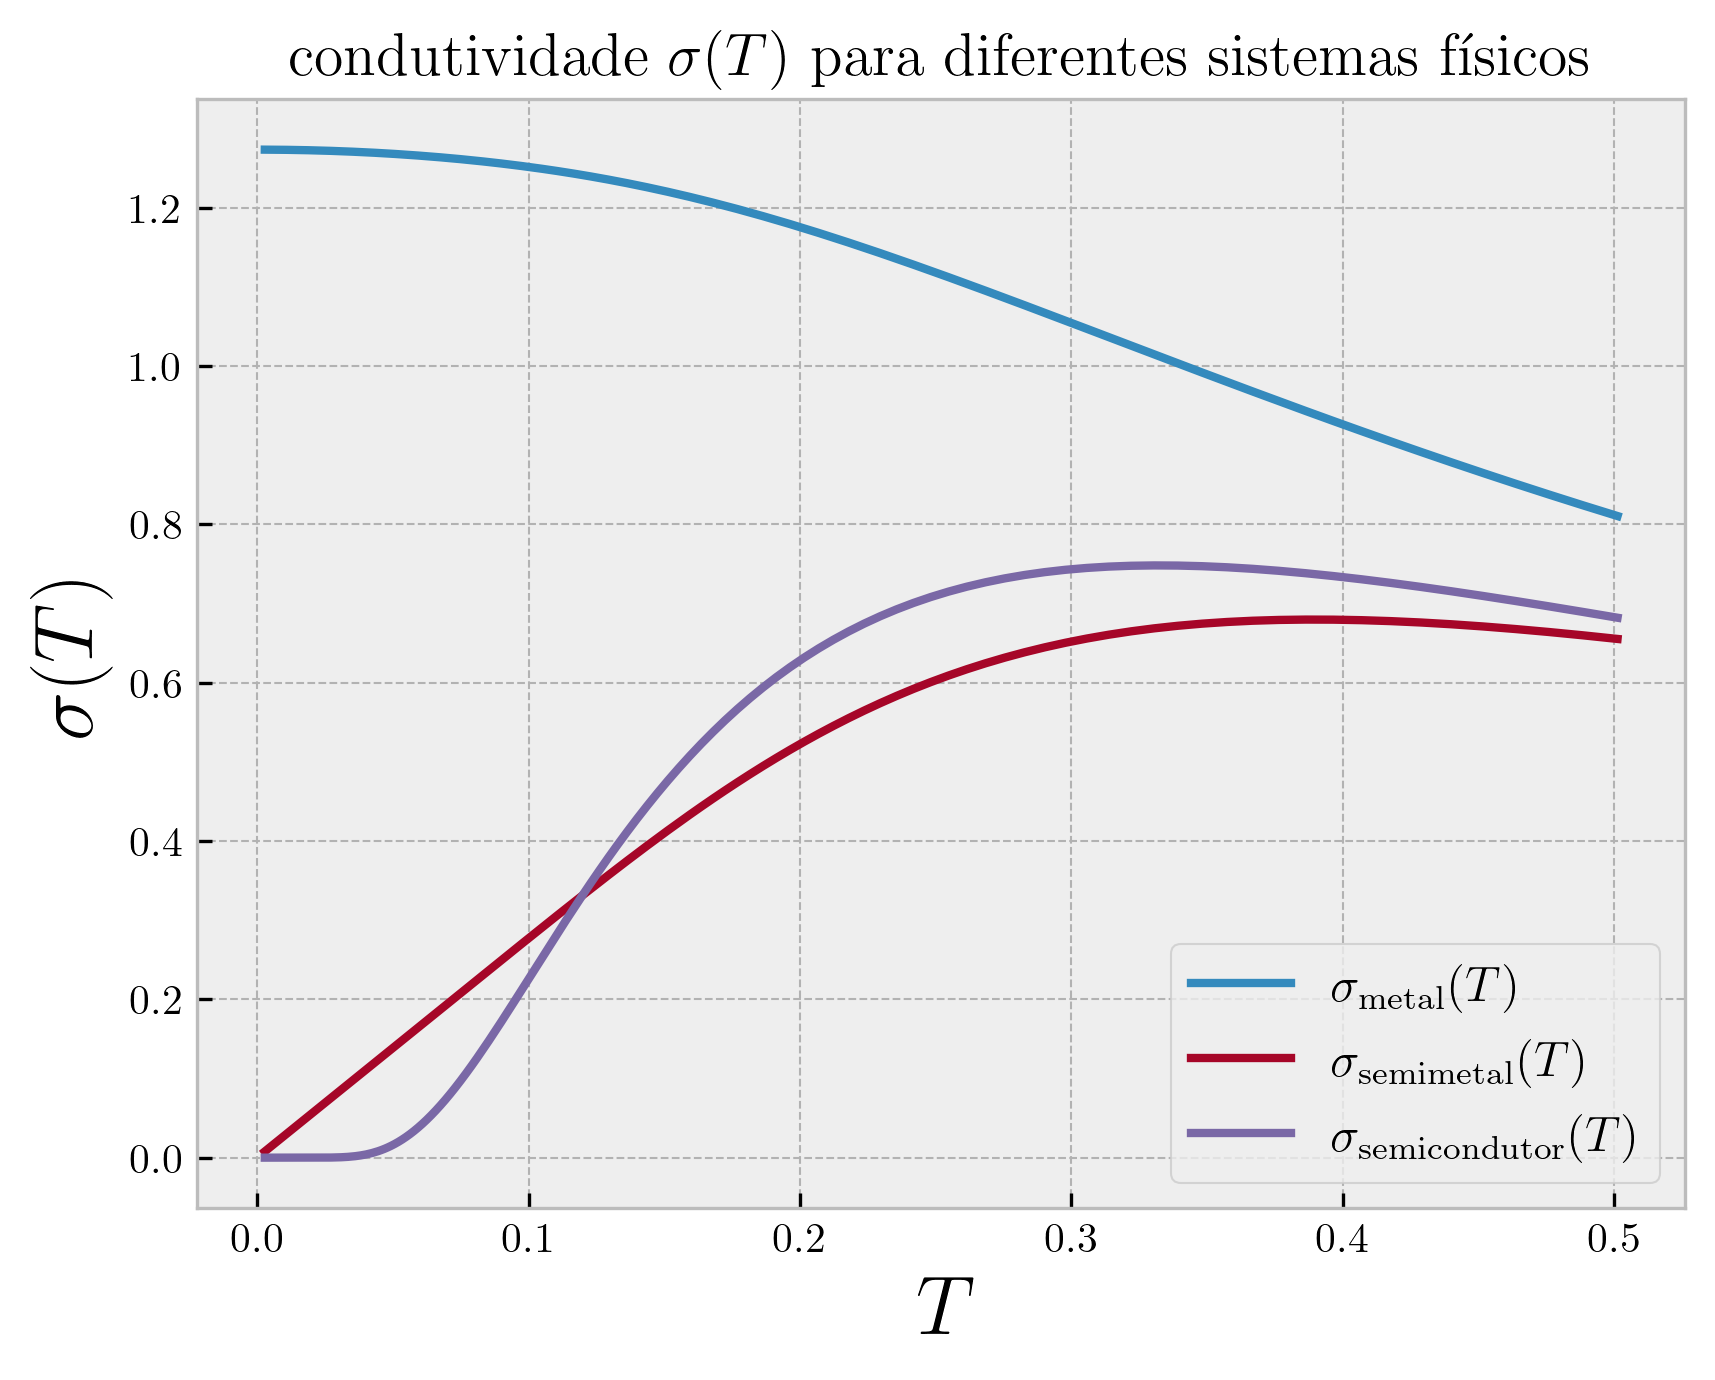
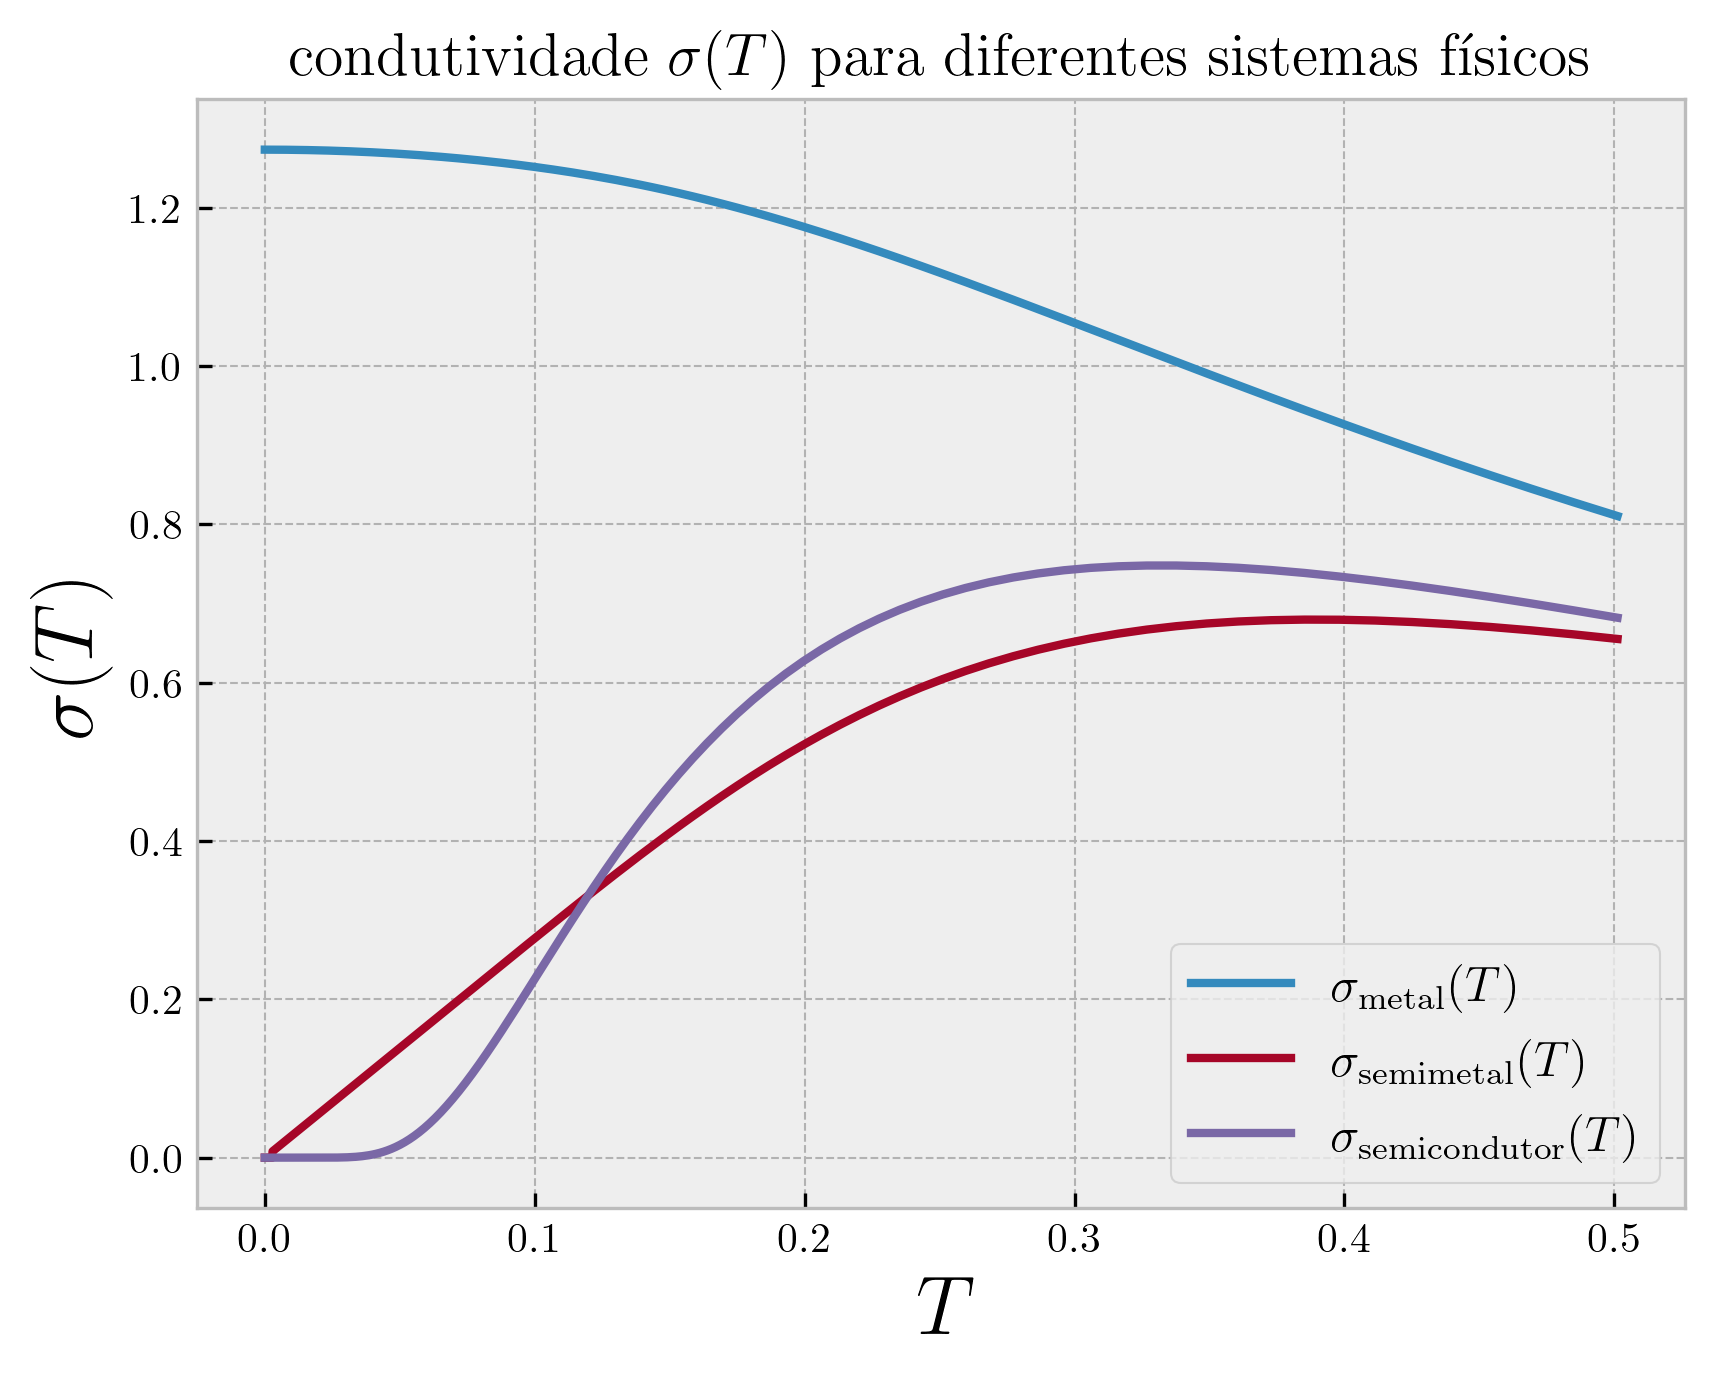
Fiz mais um pouco

diff --git a/condmat2/solucao_4.tex b/condmat2/solucao_4.tex
@@ -68,7 +68,9 @@ $$
 \s(\omega) = e^2 \frac{v_F^2 \, \tau_F }{1-i\omega \tau_F} \, \rho(E_F)
 $$
 
-INCLUIR ISOTROPIA (DIVIDIR POR DIMENSÕES), CORRIGIR $\s$ e EXPLICAR o fator de $n$.
+\textbf{INCLUIR ISOTROPIA (DIVIDIR POR DIMENSÕES), CORRIGIR $\s$ e EXPLICAR o fator de $n$.}
+
+(b) \textbf{FALTA O TEIM (B), GRAFICAR}
 
 
 \pagebreak
@@ -149,19 +151,179 @@ Assim, a integral não é exatamente $2$, a não ser que $\Delta = 0$.
 
 \section{Desordem e localização de Anderson}
 
+É intuitivo pensar que a banda associada aos operadores $d_i$ é localizada pois, na hamiltoniana considerada, existem termos de hopping entre $c_i$ e $c_j$ (sítios diferentes) e entre $c_i$ e $d_i$ (mesmo sítio), mas não existe hopping entre $d_i$ e $d_j$.
+
+Assumindo que o espaçamento de rede é $a$, tomamos as transformadas de Fourier
+$$
+c_j^\d = \frac{1}{\sqrt{N}} \sum_{k} c_k^\d e^{-ikaj} \e
+d_j^\d = \frac{1}{\sqrt{N}} \sum_{k} d_k^\d e^{-ikaj}.
+$$
+
+Temos então
+$$
+H = -t \sum_{j} \qty(c_j^\d c_{j+1} + c_{j+1}^\d c_j) +
+\lambda \sum_{j} d_j^\d d_j +
+V \sum_{j} \qty(c_j^\d d_j + d_j^\d c_j) \implies
+$$
+$$
+H = \frac{1}{N} \sum_{k,k'}
+\cancelto{\boxed{= N \delta_{k,k'}}}{\boxed{\sum_{j} e^{-i(k-k')ja}}}
+\qty{
+-t \qty(e^{ik'a} c_k^\d c_{k'} + \hc) +
+\lambda \qty(d_k^\d d_{k'}) +
+V \qty(c_k^\d d_{k'} + \hc)
+} \implies
+$$
+$$
+H = \sum_{k}
+\qty{
+-2t \cos(ka) (c_k^\d c_k) +
+\lambda (d_k^\d d_k) +
+V (c_k^\d d_k + d_k^\d c_k)
+} \implies
+$$
+$$
+\boxed{ H = \sum_{k}
+\begin{pmatrix}
+c_k^\d & d_k^\d
+\end{pmatrix}
+\begin{pmatrix}
+-2t \cos(ka) & V \\
+V & \lambda
+\end{pmatrix}
+\begin{pmatrix}
+c_k \\ d_k
+\end{pmatrix}. }
+$$
+
+Os autovalores da matriz acima são
+$$
+E_\pm(k) =
+\frac{\qty[\lambda - 2t \cos(ka)] \pm
+\sqrt{\qty[\lambda - 2t \cos(ka)]^2 + 4 V^2}}
+{2}.
+$$
+
+Os mínimos e máximos de $E_{\pm}(k)$ e máximos sempre ocorrem em $k = 0$ ou $k = \pm \frac{\pi}{a}$. Assim, as larguras $d_\pm$ das respectivas bandas $\pm$ são
+$$
+d_\pm = \abs{E_\pm\qty(\frac{\pi}{a}) - E_\pm(0)} =
+2\abs{t} \cdot \abs{1 \pm
+\frac{2 \lambda}{\sqrt{(\lambda+2t)^2+4V^2}+\sqrt{(\lambda-2t)^2+4V^2}}}.
+$$
+
+Das expressões de $d_\pm$ acima, concluimos que ambas as bandas são dispersivas (possuem larguras não-nulas), a não ser que $t = 0$ ou que $\lambda \gg 1$ (nesse caso uma das bandas tem largura muito pequena e a outra uma largura da ordem de $t$).
+
+\n
+
+O parâmetro $V$ é o gap entre as duas bandas. Temos um isolante (em $T = 0$) quando $V \neq 0$.
+
+O parâmetro $t$ controla a largura e o tipo das duas bandas. Quando $t > 0$ temos bandas do tipo elétron e quando $t < 0$ temos bandas do tipo buraco.
+
+O parâmetro $\lambda$ controla o peso (assimetria) entre as duas bandas. Se $\lambda > 0$ a banda de cima tem largura maior $d_+ > d_-$. Para $\lambda < 0$ a banda de baixo tem largura maior $d_- > d_+$.
+
+\begin{figure}[H]
+\centering
+\begin{subfigure}{.46\textwidth}
+  \centering
+  \includegraphics[width=0.95\linewidth]{fig/bandas-anderson1.png}
+  \label{fig:bandas-anderson1}
+\end{subfigure}
+\begin{subfigure}{.46\textwidth}
+  \centering
+  \includegraphics[width=0.95\linewidth]{fig/bandas-anderson2.png}
+  \label{fig:bandas-anderson2}
+\end{subfigure}
+\label{fig:bandas-anderson11}
+\end{figure}
+
+\begin{figure}[H]
+\centering
+\begin{subfigure}{.46\textwidth}
+  \centering
+  \includegraphics[width=0.95\linewidth]{fig/bandas-anderson3.png}
+  \label{fig:bandas-anderson3}
+\end{subfigure}
+\begin{subfigure}{.46\textwidth}
+  \centering
+  \includegraphics[width=0.95\linewidth]{fig/bandas-anderson4.png}
+  \label{fig:bandas-anderson4}
+\end{subfigure}
+\label{fig:bandas-anderson12}
+\end{figure}
+
+(b) \textbf{FALTA O ITEM (B)}
+
 \pagebreak
 
 \section{Efeito Hall}
+
+(a) A condição de quantização de Bohr-Sommerfeld nos dá que $2\pi R = n \lambda \iff k R = n$ (onde $\lambda = \frac{2\pi}{k}$ é o comprimento de onda de de Broglie). Para um elétron em 2D sob a ação de um campo magnético uniforme perpendicular ao plano, ele executará um movimento circular uniforme. Temos então que $\frac{mv^2}{R} = e v B \implies p = mv = e B R = \hbar k \implies e B R^2 = n \hbar$. O fluxo magnético é
+$$
+\Phi_B = B \cdot \pi R^2 = n \times \frac{h}{2e},
+$$
+onde $\Phi_0 = h/2e$ é o quanta de fluxo. Cada órbita com $n$ comprimento de ondas engloba $n \times \Phi_0$ de fluxo magnético.
+
+\n
+
+(b) Seja $c^\d$ o operador de criação em um sítio que denominamos como a origem em nosso lattice. Os operadores de criação $c_j^\d$ em outros sítios podem ser obtidos então através da aplicação do operador de translação $T(\r_j) = \exp[-\frac{i}{\hbar} \p \vdot \r_j] = \exp[-\frac{i}{\hbar} \int_{\0}^{\r_j} \p \vdot \dd{\r}]$, de maneira que
+$$
+c_j^\d = \exp[-\frac{i}{\hbar} \int_{\0}^{\r_j} \p \vdot \dd{\r}] c^\d.
+$$
+Como sabemos, podemos incluir o campo magnético através da substituição $\p \to \p - q \A$, de maneira que
+$$
+c_j^\d \to \exp[i\frac{q}{\hbar} \int_{\0}^{\r_j} \A \vdot \dd{\r}] c_j^\d
+$$
+e portanto
+$$
+t_{ij} c_j^\d c_i \to t_{ij} e^{i \Phi_{ij}} c_j^\d c_i, \quad
+\Phi_{ij} = \frac{q}{\hbar}\int_{\r_i}^{\r_j} \A \vdot \dd{\r}.
+$$
+
+Do item (a) temos que
+$$
+n \Phi_0 = \Phi_B = \iint \B \vdot \dd{\vb{S}} = \iint (\curl{\A}) \vdot \dd{\vb{S}} = \oint \A \vdot \dd{\r} \implies n \propto \Phi_{jj}.
+$$
+
+O gauge de Landau é $\A = Bx \vu{y}$. O modelo tight-binding da rede quadrada em 2D para primeiros vizinhos então nos dá
+$$
+\Phi_{(x,y),(x+a,y)} = \frac{q}{\hbar} \int_{(x,y)}^{(x+a,y)} (B x \vu{y}) \vdot (dx \vu{x}) = 0
+$$
+$$
+\Phi_{(x,y),(x,y+a)} = \frac{q}{\hbar} \int_{(x,y)}^{(x,y+a)} (B x \vu{y}) \vdot (dy \vu{y}) = \frac{qBxa}{\hbar}.
+$$
+<++>
+$$
+H = -t \sum_{\R}
+\qty{
+\qty[c^\d_{(\R+a\vu{x})} c_{\R} + c_{\R}^\d c_{(\R+a\vu{x})}] +
+\qty[e^{i\frac{qBxa}{\hbar}} c^\d_{(\R+a\vu{y})} c_{\R} + e^{-i\frac{qBxa}{\hbar}}c_{\R}^\d c_{(\R+a\vu{y})}]
+}
+$$
+$$
+H = -\frac{t}{N} \sum_{\k,\k'}
+\qty{
+\qty[
+\cancelto{\boxed{= N \delta_{\k,\k'}}}{\boxed{\sum_{\R} e^{-i(\k-\k')\vdot\r}}}
+e^{-ik_x a} c_{\k}^\d c_{\k'} + \hc] +
+\qty[
+\cancelto{\boxed{= N \delta_{\k-\frac{qBa}{\hbar}\vu{x},\k'}}}{\boxed{\sum_{\R} e^{-i\qty(\k-\k'-\frac{qBa}{\hbar}\vu{x})\vdot\r}}}
+e^{-ik_y a} c_{\k}^\d c_{\k'} + \hc]
+}
+$$
+
+\textbf{NÃO TENHO MUITO IDEIA da DOS. VOU INVENTAR QUALQUER COISA}
 
 \pagebreak
 
 \section{Número de Chern para um modelo de duas bandas}
 
+\textbf{INTEGRAR NUMERICAMENTE.}
+
 \pagebreak
 
 \section{Condutividade Hall}
 
+\textbf{FAZER CÁLCULOS PASSO A PASSO.}
 
-\pagebreak
 
 \end{document}

diff --git a/condmat2/dos-lista4.py b/condmat2/dos-lista4.py
@@ -11,7 +11,7 @@ rc('text', usetex=True)
 rc('text.latex', preamble=r'\usepackage{physics}')
 #matplotlib.verbose.level = 'debug-annoying'
 #######################################################################
-from scipy.integrate import simpson
+#from scipy.integrate import simpson
 from scipy.integrate import quad
 
 #m, L, A, V = 1, 1, 1, 1
@@ -25,13 +25,13 @@ dos_metal = lambda e: (4/np.pi) * np.sqrt(1-np.clip(e**2, 0, 1))
 dos_semimetal = lambda e: 2 * np.abs(e) * (np.abs(e) <= 1)
 dos_semicondu = lambda e: np.abs(e) / np.sqrt(np.clip(e**2, (Delta+infinitesimal)**2, 1) - Delta**2) * (np.abs(e) > Delta) * (np.abs(e) < 1)
 
-def fermi_dv(e, T):
-    return (1/T) * np.exp(e/T) / (np.exp(e/T) + 1)**2
-
-# sigma / ( 2/3 e^2 tau_F v_F^2 )
 def sigma(rho, T):
-    result = quad(lambda e: rho(e) * fermi_dv(e, T), -1, 1, points=(Delta, -Delta))
-    return result[0]
+    if (T > 10**(-2.55)):
+        fdv = lambda e, T: (1/T) * np.exp(e/T) / (np.exp(e/T) + 1)**2
+        result = quad(lambda e: rho(e) * fdv(e, T), -1, 1, points=(Delta, -Delta))
+        return result[0]
+    else:
+        return rho(0)
 
 def main():
     a = -1; b = 1
@@ -59,7 +59,7 @@ def main():
     plt.savefig("dos.png", dpi=300, format='png', bbox_inches="tight")
     plt.clf()
 
-    Ts = np.logspace(-2.55, -0.3, 200)
+    Ts = np.logspace(-6, -0.3, 400)
     sigma_metal, sigma_semimetal, sigma_semicondu = [], [], []
     for T in Ts:
         sigma_metal.append(sigma(dos_metal, T))

diff --git a/condmat2/bandas_anderson-lista4.py b/condmat2/bandas_anderson-lista4.py
@@ -1,0 +1,49 @@
+#!/usr/bin/env python3
+
+import numpy as np
+
+from matplotlib import pyplot as plt
+## comentar as 4 linhas abaixo caso nao tenha o LaTeX no matplotlib ###
+from matplotlib import rc
+plt.style.use('bmh')
+rc('font', **{'family': 'serif', 'serif': ['Computer Modern']})
+rc('text', usetex=True)
+rc('text.latex', preamble=r'\usepackage{physics}')
+#matplotlib.verbose.level = 'debug-annoying'
+#######################################################################
+#from scipy.integrate import simpson
+
+#m, L, A, V = 1, 1, 1, 1
+#r1 = lambda x: (2*m*L) / np.pi * 1 / (np.sqrt(2*m*x))
+#r2 = lambda x: m*A / np.pi + 0*x
+#r3 = lambda x: m*V / np.pi**2 * np.sqrt(2*m*x)
+
+t = +5
+V = 0
+L = 7
+a = 1
+
+def Ek(n, k):
+    pm = (-1)**n
+    s = L - 2*t*np.cos(k*a)
+    return (s + pm*np.sqrt(s**2 + 4*V**2)) / 2
+
+
+def main():
+    kmin = -np.pi/a; kmax = np.pi/a
+    ks = np.linspace(kmin, kmax, 400)
+    plt.plot(ks, Ek(2, ks), label=r'$E_+(k)$')
+    plt.plot(ks, Ek(1, ks), label=r'$E_-(k)$')
+    plt.xlabel(r'$k$', fontsize=20)
+    plt.ylabel(r'$E(k)$', fontsize=20)
+    plt.legend(fontsize=12)
+    plt.title(r'bandas $E_\pm(k)$: $t = %.0f, \lambda = %.0f, V = %.0f, a = %.0f$' % (t, L, V, a))
+    plt.savefig("bandas-anderson.png", dpi=300, format='png', bbox_inches="tight")
+    plt.clf()
+
+# unused code
+#plt.savefig("plot.png", dpi=300, format='png', bbox_inches="tight")
+#plt.clf()
+
+if __name__ == '__main__':
+    main()

diff --git a/condmat2/preamble.tex b/condmat2/preamble.tex
@@ -45,6 +45,7 @@
 \renewcommand{\d}{\dagger}
 \newcommand{\up}{\uparrow}
 \newcommand{\down}{\downarrow}
+\newcommand{\hc}{\text{h.c.}}
 
 \newcommand{\0}{\vb{0}}
 %\newcommand{\1}{\mathds{1}}
@@ -56,6 +57,7 @@
 \newcommand{\p}{\vb{p}}
 \newcommand{\q}{\vb{q}}
 \newcommand{\F}{\vb{F}}
+\newcommand{\A}{\vb{A}}
 
 \newcommand{\s}{\sigma}
 %\newcommand{\prodint}[2]{\left\langle #1 , #2 \right\rangle}
